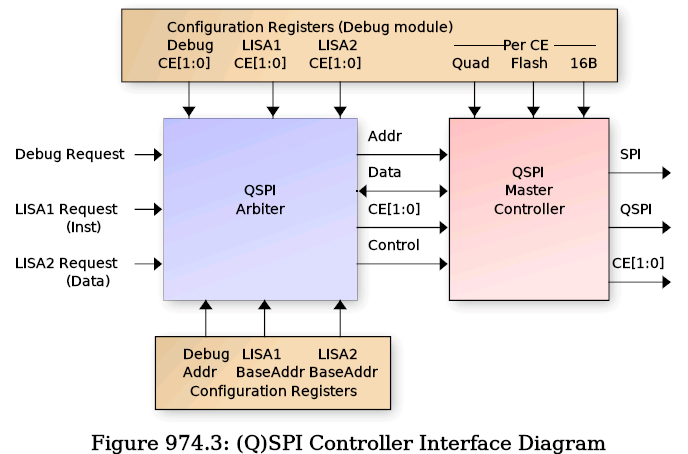
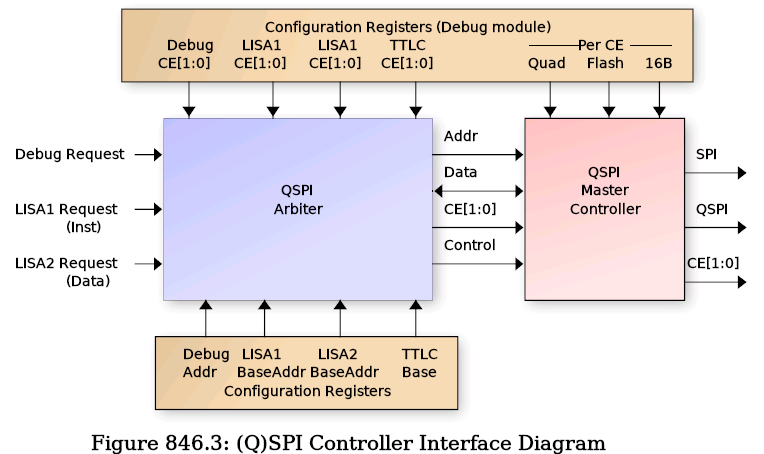
lisa-test README: carry-less add is by design; the bug is the 8-bit carry-in

diff --git a/docs/info.md b/docs/info.md
@@ -1,10 +1,12 @@
-## What is LISA?
+## What is LISA with TTLC?
 
 LISA is a Microcontroller built around a custom 8-Bit Little ISA (LISA)
 microprocessor core.  It includes several standard peripherals that
 would be found on commercial microcontrollers including timers, GPIO,
-UARTs and I2C.
-The following is a block diagram of the LISA Microcontroller:
+UARTs and I2C. TTLC is a Programmable Logic Controller for Tiny Tapeout
+(TTLC) build around a functional equivalent of a Motorola mc1500b system
+controller.
+The following is a block diagram of the design:
 
 ![](block_diag.png)
 
@@ -13,8 +15,10 @@ The following is a block diagram of the LISA Microcontroller:
       - Stack Pointer and Index Register (Indexed DATA RAM access)
       - 8-bit Accumulator + 16-bit BF16 Accumulator and 4 BF16 registers
 
+
 ### Deailed list of the features
    - Harvard architecture LISA Core (16-bit instruction, 15-bit address space)
+   - Motorola MC14500B System Controller with PC, Stack, I/O and stroage
    - Debug interface
       * UART controlled
       * Auto detects port from one of 3 interfaces
@@ -24,9 +28,9 @@ The following is a block diagram of the LISA Microcontroller:
       * Read/write LISA core registers and peripherals
       * Set LISA breakpoints, halt, resume, single step, etc.
       * SPI/QSPI programmability (single/quad, port location, CE selects)
-   - (Q)SPI Arbiter with 3 access channels
+   - (Q)SPI Arbiter with 4 access channels
       * Debug interface for direct memory access
-      * Instruction fetch
+      * Instruction fetch (LISA and MC14500B)
       * Data fetch
       * Quad or Single SPI.  Hereafter called QSPI, but supports either.
    - Onboard 128 Byte RAM for DATA / DATA CACHE
@@ -41,19 +45,19 @@ The following is a block diagram of the LISA Microcontroller:
    - I2C Master controller
    - Hardware 8x8 integer multiplier
    - Hardware 16/8 or 16/16 integer divider
-   - Hardware Brain Float 16 (BF16) Multiply/Add/Negate/Int16-to-BF16
+   - Hardware Brain Float 16 (BF16) Multiply/Divide/Add/Negate/ItoF/FtoI
    - Programmable I/O mux for maximum flexibility of I/O usage.
+   - TTLC 48-Outputs plus 48-Inputs via external 74HC595 / 74HC166 chips
+   - TTLC 32-Bit internal storage plus 16 bit I/O to LISA (8 each direction)
 
-It uses a 32x32 1RW [DFFRAM](https://github.com/AUCOHL/DFFRAM) macro to implement a 128 bytes (1 kilobit) RAM module.
-The 128 Byte ram can be used either as a DATA cache for the processor data bus, giving a 32K Byte address range,
+A 32x32 1RW [DFFRAM](https://github.com/AUCOHL/DFFRAM) macro implements a 128 byte RAM module.
+The RAM can be used either as a DATA cache for the processor, giving a 32K Byte address range,
 or the CACHE controller can be disabled, connecting the Lisa processor core to the RAM directly, limiting the 
-data space to 128 bytes.  Inclusion of the DFFRAM is thanks to Uri Shaked (Discord urish) and his DFFRAM example.
-
-Reseting the project **does not** reset the RAM contents.
+data space to 128 bytes.
 
 ## Connectivity
 
-All communication with the microcontroller is done through a UART connected to the Debug Controller.  The UART
+All communication with the design is done through a UART connected to the Debug Controller.  The UART
 I/O pins are auto-detected by the debug_autobaud module from the following choices (RX/TX):
 
     ui_in[3]  / ui_out[4]     RP2040 UART interface   
@@ -83,7 +87,7 @@ The Debug interface uses a fixed, Verilog coded Finite State Machine (FSM) that 
 the UART to interface with the microcontroller.  These commands are simple ASCII format such that low-level testing
 can be performed using any standard terminal software (such as minicom, tio. Putty, etc.).  The 'r' and 'w' commands must be
 terminated using a NEWLINE (0x0A) with an optional CR (0x0D).  Responses from the debug interface are always 
-terminated with a LINFEED plus CR sequence (0x0A, 0x0D).  The commands are as follows (responsce LF/CR ommited):
+terminated with a LINFEED plus CR sequence (0x0A, 0x0D).  All HEX values must be lower case.
 
  | Command   | Description                                                          |
  | --------- | -------------------------------------------------------------------- |
@@ -94,37 +98,39 @@ terminated with a LINFEED plus CR sequence (0x0A, 0x0D).  The commands are as fo
  | l         | Grant LISA the UART.  Further data will be ignored by the debugger.  |
  | +++       | Revoke LISA UART.  NOTE: a 0.5s guard time before/after is required. |
 
-NOTE: All HEX values must be a-f and not A-F.  Uppercase is not supported.
-
 ### Debug Configuration and Control Registers
 
 The following table describes the configuration and LISA debug register addresses available via the debug 'r' and 'w'
 commands.  The individual register details will be described in the sections to follow.
 
- | ADDR | Description                | ADDR | Description                  |
- | ---- | -------------------------- | ---- | ---------------------------- |
- | 0x00 | LISA Core Run Control      | 0x12 | LISA1 QSPI base address      |
- | 0x01 | LISA Accumulator / FLAGS   | 0x13 | LISA2 QSPI base address      |
- | 0x02 | LISA Program Counter (PC)  | 0x14 | LISA1 QSPI CE select         |
- | 0x03 | LISA Stack Pointer (SP)    | 0x15 | LISA2 QSPI CE select         |
- | 0x04 | LISA Return Address (RA)   | 0x16 | Debug QSPI CE select         |
- | 0x05 | LISA Index Register (IX)   | 0x17 | QSPI Mode (QUAD, flash, 16b) |
- | 0x06 | LISA Data bus              | 0x18 | QSPI Dummy read cycles       |
- | 0x07 | LISA Data bus address      | 0x19 | QSPI Write CMD value         |
- | 0x08 | LISA Breakpoint 1          | 0x1a | The '+++' guard time count   |
- | 0x09 | LISA Breakpoint 2          | 0x1b | Mux bits for uo_out          |
- | 0x0a | LISA Breakpoint 3          | 0x1c | Mux bits for uio             |
- | 0x0b | LISA Breakpoint 4          | 0x1d | CACHE control                |
- | 0x0c | LISA Breakpoint 5          | 0x1e | QSPI edge / SCLK speed       |
- | 0x0d | LISA Breakpoint 6          | 0x20 | Debug QSPI Read / Write      |
- | 0x0f | LISA Current Opcode Value  | 0x21 | Debug QSPI custom command    |
- | 0x10 | Debug QSPI Address (LSB16) | 0x22 | Debug read SPI status reg    |
- | 0x11 | Debug QSPI Address (MSB8)  |      |                              |
+ | ADDR | Description                  | ADDR | Description                  |
+ | ---- | --------------------------   | ---- | ---------------------------- | 
+ | 0x00 | LISA Core Run Control        | 0x17 | QSPI Mode (QUAD, flash, 16b) | 
+ | 0x01 | LISA Accumulator / FLAGS     | 0x18 | QSPI Dummy read cycles       | 
+ | 0x02 | LISA Program Counter (PC)    | 0x19 | QSPI Write CMD value         | 
+ | 0x03 | LISA Stack Pointer (SP)      | 0x1a | The '+++' guard time count   | 
+ | 0x04 | LISA Return Address (RA)     | 0x1b | Mux bits for uo_out          | 
+ | 0x05 | LISA Index Register (IX)     | 0x1c | Mux bits for uio             | 
+ | 0x06 | LISA Data bus                | 0x1d | CACHE control                | 
+ | 0x07 | LISA Data bus address        | 0x1e | QSPI edge / SCLK speed       | 
+ | 0x08 | LISA Breakpoint 1            | 0x1f | MC14500b Base Address        | 
+ | 0x09 | LISA Breakpoint 2            | 0x20 | Debug QSPI Read / Write      | 
+ | 0x0a | LISA Breakpoint 3            | 0x21 | Debug QSPI custom command    | 
+ | 0x0b | LISA Breakpoint 4            | 0x22 | Debug read SPI status reg    | 
+ | 0x0c | LISA Breakpoint 5            | 0x30 | Floating point reg f0        | 
+ | 0x0d | LISA Breakpoint 6            | 0x31 | Floating point reg f1        | 
+ | 0x0f | LISA Current Opcode Value    | 0x32 | Floating point reg f2        | 
+ | 0x10 | Debug QSPI Address (LSB16)   | 0x33 | Floating point reg f3        | 
+ | 0x11 | Debug QSPI Address (MSB8)    | 0x34 | Floating point reg facc      | 
+ | 0x12 | LISA1 QSPI base address      | 0x40 | MC14500B Run Control         | 
+ | 0x13 | LISA2 QSPI base address      | 0x41 | MC14500B Program Counter     | 
+ | 0x14 | LISA1 QSPI CE select         | 0x48 | MC14500B Breakpoint 1        | 
+ | 0x15 | LISA2 QSPI CE select         | 0x49 | MC14500B Breakpoint 2        | 
+ | 0x16 | Debug QSPI CE select         | 0x4a | MC14500B Breakpoint 3        | 
+                                         
+### LISA Processor Interface Details                                         
 
-### LISA Processor Interface Details
-
-The LISA Core requires external memory for all Instructions and Data (well, sort of for data, the
-data CACHE can be disabled then it just uses internal DFFRAM).  To accomodate external memory,
+The LISA Core requires external memory for all Instructions and Data.  To accomodate external memory,
 the design uses a QSPI controller that is configurable as either single SPI or
 QUAD SPI, Flash or SRAM access, 16-Bit or 24-Bit addressing, and selectable Chip Enable for each
 type of access.  To achieve this, a QSPI arbiter is used to allow multiple accessors as shown in
@@ -138,6 +144,7 @@ that specify the operating mode per CE, and CE selection bits for each of the th
    - Debug Interface
    - LISA1 (Instruction fetch)
    - LISA2 (Data read/write)
+   - MC14550B (Instruction fetch)
 
 The arbiter gives priority to the Debug accesses and processes LISA1 and LISA2 requests using
 a round-robbin approach.  Each requestor provides a 24-bit address along with 16-bit data read/write.
@@ -211,12 +218,13 @@ Once the SPI/QSPI SRAM and optional FLASH have been chosen and connected, the De
 be programmed to indicate the nature of the external device(s).  This is accompilished using Debug registers 0x12 - 0x19 and
 0x1C.  To programming the proper mode, follow these steps:
 
-   1. Program the LISA1, LISA2 and Debug CE Select registers (0x14, 0x15, 0x16) indicating which CE to use.
-      -  0x14, 0x15, 0x16:  {6'h0, ce1_en, ce0_en} Active HIGH
-
-   2. Program the LISA1 and LISA2 base addresses if they use the same SRAM:
+   1. Program the LISA1, LISA2, TTLC and Debug CE Select registers (0x14, 0x15, 0x16) indicating which CE to use.
+      -  0x14, 0x16:  {14'h0, ce1_en, ce0_en} Active HIGH
+      -  0x15: {12'h0, ttlc_ce1_en, ttlc_ce0_en, lisa2_ce1_en, lisa2_ce0_en}
+   2. Program the LISA1,LISA2 and TTLC base addresses if they use the same SRAM:
       -  0x12: {LISA1_BASE, 8'h0} | {8'h0, PC}
       -  0x13: {LISA2_BASE, 8'h0} | {8'h0, DATA_ADDR}
+      -  0x1f: {TTLC_BASE, 8'h0}  | {8'h0, MC14500_ADDR}
    3. Program the mode for each Chip Enable (bits active HIGH)
       -  0x17: {10'h0, is_16b[1:0], is_flash[1:0], is_quad[1:0]}
    4. For Quad SPI, Special Mux Mode 3, or CE1, program the uio_mux mode:
@@ -247,7 +255,7 @@ NOTE: For register 0x1E (SPI Clock Div and CE Delay), there is only a single reg
       emulation indicates a delay between CE activations is likely needed, so this setting is 
       provided in case it is needed.
 
-## Architecture Details
+## LISA Architecture Details
 
 Below is a simplified block diagram of the LISA processor core.  It uses an 8-bit accumulator for most of
 its operations with the 2nd argument predominately coming from either immediate data in the instruction
@@ -333,6 +341,7 @@ Legend for operations below:
  | jal     | pc <= pc_jmp   | 0aaa_aaaa_aaaa_aaaa | Jump And Link (call).     |
  |         | ra <= pc       |                     |                           |
  | ret     | pc <= ra       | 1000_1010_0xxx_xxxx | Return                    |
+ | rets    | pc <= ia,ie<=1 | 1000_1011_01xx_xxxx | Return from ISR           |
  | reti    | pc <= ra       | 1000_11xx_iiii_iiii | Return Immediate.         |
  |         | acc <= acc_val |                     |                           |
  | br      | pc <= pc_rel   | 1011_0rrr_rrrr_rrrr | Branch Always             |
@@ -340,9 +349,9 @@ Legend for operations below:
  |         | if zero=1      |                     |                           |
  | bnz     | pc <= pc_rel   | 1010_1rrr_rrrr_rrrr | Branch if Not Zero.       |
  |         | if zero=0      |                     |                           |
- | rc      | pc <= ra       | 1000_1011_0xxx_xxxx | Return if Carry           |
+ | rc      | pc <= ra       | 1000_1011_00xx_xxxx | Return if Carry           |
  |         | if carry=1     |                     |                           |
- | rz      | pc <= ra       | 1000_1011_1xxx_xxxx | Return if Zero            |
+ | rz      | pc <= ra       | 1000_1011_10xx_xxxx | Return if Zero            |
  |         | if zero=1      |                     |                           |
  | call_ix | pc <= ix       | 1000_1010_100x_xxxx | Call indirect via IX      |
  |         | ra <= pc       |                     |                           |
@@ -408,12 +417,12 @@ The instructions that use direct addressing are:
  | adx    | IX <= IX + imm   | 1001_10ii_iiii_iiii | ADD IX + signed immediate |
  | andi   | A <= A & imm     | 1000_01xx_iiii_iiii | AND immediate with A      |
  | cpi    | Z,C <= A >= imm  | 1010_01xx_iiii_iiii | Compare A >= immediate    |
- | cpi    | Z,C <= A >= imm  | 1010_01xx_iiii_iiii | Compare A >= immediate    |
+ | ldi    | Z,C <= A         | 1000_00xx_iiii_iiii | A = imm C = 0, Z = a==imm |
 
-### Accumulator Indirect Operations
+### Accumulator Indirect / Peripheral Operations
 
 The Accumulator Indirect operations use immediate data in the instruction word to index
-indirectly into Data memory.  That memory address is then used to load, store or both
+indirectly into Data memory or peripheral space.  That memory address is then used to load, store or both
 load and store (swap) data with the accumulator.
 
 ![](lisa_indirect_acc.png)
@@ -497,6 +506,38 @@ are POPed, the SP is incremented prior to reading from RAM.
  |         | SP -= 1       |                     |                           |
  | pop_a   | A <= M[SP+1]  | 1010_0000_110x_xxxx | Load A from stack         |
  |         | SP += 1       |                     |                           |
+
+### Register and other Operations
+
+Register operations operate exclusively on internal registers, such as exchanging
+between two regs, shifting, complimenting, etc.  Also there are a few miscelanous
+opcodes for things like setting arithemetic mode, complimenting the C flag, etc.
+
+ | Opcode  | Operation     | Encoding            | Description               |
+ | ------- | ------------- | ------------------- | ------------------------- |
+ | amode   | amode <= acc  | 1010_0001_0100_0mmm | Load amode from acc[2:0]  |
+ | brk     | Breakpoint    | 1010_0000_0111_11xx | Halt the processor        |
+ | cpx_ra  | C,Z <= IX>=RA | 1000_1010_1101_00xx | Compare RA with IX        |
+ | cpx_sp  | C,Z <= IX>=SP | 1000_1010_1101_10xx | Compare SP with IX        |
+ | ldc     | C <= b        | 1010_0000_0000_1bxx | Load C flag from b        |
+ | ldirq   | acc <= IRQz,c | 1010_0001_0010_00xx | Load acc with IRQ [z,c]   |
+ | ldz     | Z <= b or ~Z  | 1010_0000_0110_cbxx | Z <= ~Z if c else b       |
+ | nop     | No operation  | 1010_0000_0111_00xx | Z <= ~Z if c else b       |
+ | notz    | Z <= ~Z       | 1010_0000_0111_01xx | Z <= ~Z if c else b       |
+ | eidi    | ie <= f       | 1010_0000_0111_10xf | Load Interrupt Enable     |
+ | xchg_ia | IA <=> IX     | 1000_1010_1100_01xx | Exchange IA with IX       |
+ | xchg_ra | RA <=> IX     | 1000_1010_1100_00xx | Exchange RA with IX       |
+ | xchg_sp | SP <=> IX     | 1000_1010_1100_10xx | Exchange SP with IX       |
+ | shl     | a <<= 1       | 1010_0000_0000_00xx | Shift acc left 1          |
+ | shl16   | a,M[SP] <<= 1 | 1010_0000_0010_iixx | 16-bit shift left 1       |
+ | shr     | a >>= 1       | 1010_0000_0000_01xx | Shift acc right 1         |
+ | shr16   | a,M[SP] >>= 1 | 1010_0000_0011_iixx | 16-bit shift right 1      |
+ | spix    | SP <= IX      | 1000_1010_1100_11xx | Load SP from IX           |
+ | stirq   | IRQz,c <= acc | 1010_0001_0010_01xx | Load IRQz,c from acc[1:0] |
+ | tax     | IX[L] <= acc  | 1010_0001_0000_00xx | Transfer acc to IX[7:0]   |
+ | taxu    | IX[H] <= acc  | 1010_0001_0000_01xx | Transfer acc to IX[14:0]  |
+ | txa     | acc <= IX[L]  | 1010_0000_0001_00xx | Transfer IX[7:0] to acc   |
+ | txau    | acc <= IX[H]  | 1010_0000_0001_10xx | Transfer IX[14:0] to acc  |
 
 ## How to test
 

diff --git a/lisa-test/README.md b/lisa-test/README.md
@@ -195,7 +195,8 @@ TT07 board:
   adder is `acc + acc_adder` with `acc_adder` an *8-bit* operand, and the
   carry-in is folded into that operand instead of being a real carry-in, so it
   is lost when the operand wraps:
-  * `add M` adds without C at all (the ISA doc says it includes C; it does not);
+  * `add M` adds without C — that one is by design (`adc` is the carry form);
+    the ISA doc used to say `+C` and has been corrected;
   * `adc #k` adds `(k + C) & 0xff`: `adc #0xff` with C = 1 adds 0 and clears C;
   * `sub M` adds `~((M + C) & 0xff) + 1` (8 bits): `sub M` with M = 0, C = 0
     computes A + 0 and reports a borrow (C = 1), and `cmp M` with M = 0 reports
